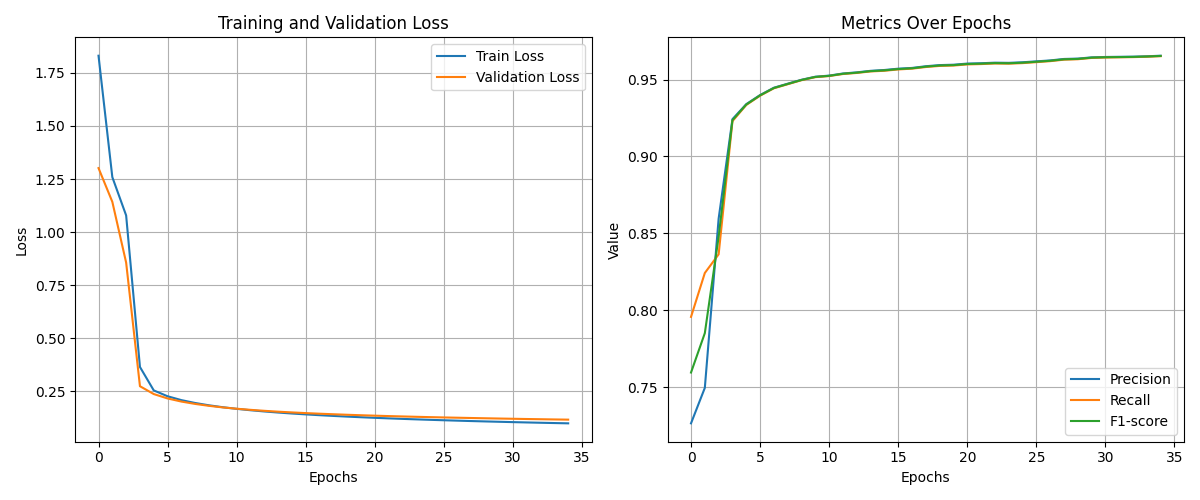
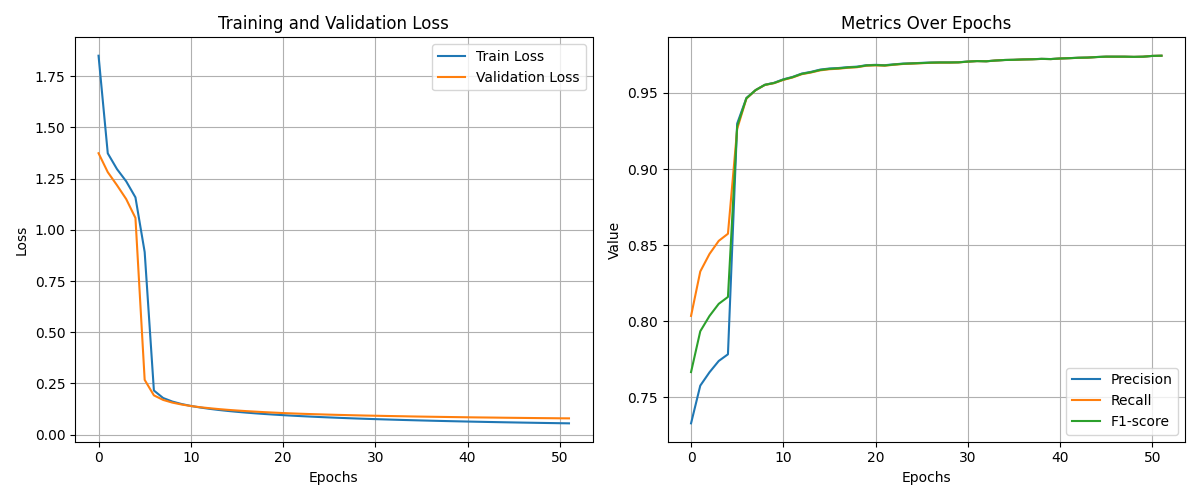
Add layer visualization and activation capture functionality
- Introduced `capture_activations` and `visualize_layer_learning` functions in `utils_mnist.py` to capture and visualize layer activations during model inference.
- Updated `example_mnist.py` to visualize layer learning during the testing phase.
- Added a new binary file `history.png` to store training history.
- Created a new test file `pitensor_tensor.py` to validate tensor operations and layer instantiation.
- Modified import statements to include necessary layers for visualization.

diff --git a/pitensor/nn/optimizers/Adam.py b/pitensor/nn/optimizers/Adam.py
@@ -1,6 +1,5 @@
-import numpy as np
 from .Optimizer import Optimizer
-from pitensor.nn.layers import Linear
+import numpy as np
 
 class Adam(Optimizer):
     def __init__(self, learning_rate=0.001, beta1=0.9, beta2=0.999, epsilon=1e-8):
@@ -14,28 +13,36 @@ class Adam(Optimizer):
 
     def step(self, layers):
         self.t += 1
-        for i, layer in enumerate(layers):
-            if isinstance(layer, Linear):
-                if i not in self.m:
-                    self.m[i] = {'weights': np.zeros_like(layer.weights), 'biases': np.zeros_like(layer.biases)}
-                    self.v[i] = {'weights': np.zeros_like(layer.weights), 'biases': np.zeros_like(layer.biases)}
-                
-                # Update biased first moment estimate
-                self.m[i]['weights'] = self.beta1 * self.m[i]['weights'] + (1 - self.beta1) * layer.grad_weights
-                self.m[i]['biases'] = self.beta1 * self.m[i]['biases'] + (1 - self.beta1) * layer.grad_biases
+        for layer in layers:
+            if not hasattr(layer, "weights") or not hasattr(layer, "grad_weights") or layer.grad_weights is None:
+                continue
 
-                # Update biased second raw moment estimate
-                self.v[i]['weights'] = self.beta2 * self.v[i]['weights'] + (1 - self.beta2) * (layer.grad_weights ** 2)
-                self.v[i]['biases'] = self.beta2 * self.v[i]['biases'] + (1 - self.beta2) * (layer.grad_biases ** 2)
+            layer_key = id(layer)
+            if layer_key not in self.m:
+                self.m[layer_key] = {'weights': np.zeros_like(layer.weights)}
+                self.v[layer_key] = {'weights': np.zeros_like(layer.weights)}
+                if hasattr(layer, "biases"):
+                    self.m[layer_key]['biases'] = np.zeros_like(layer.biases)
+                    self.v[layer_key]['biases'] = np.zeros_like(layer.biases)
 
-                # Compute bias-corrected first moment estimate
-                m_hat_weights = self.m[i]['weights'] / (1 - self.beta1 ** self.t)
-                m_hat_biases = self.m[i]['biases'] / (1 - self.beta1 ** self.t)
+            # Update biased first moment estimate
+            self.m[layer_key]['weights'] = self.beta1 * self.m[layer_key]['weights'] + (1 - self.beta1) * layer.grad_weights
 
-                # Compute bias-corrected second raw moment estimate
-                v_hat_weights = self.v[i]['weights'] / (1 - self.beta2 ** self.t)
-                v_hat_biases = self.v[i]['biases'] / (1 - self.beta2 ** self.t)
+            # Update biased second raw moment estimate
+            self.v[layer_key]['weights'] = self.beta2 * self.v[layer_key]['weights'] + (1 - self.beta2) * (layer.grad_weights ** 2)
 
-                # Update parameters
-                layer.weights -= self.learning_rate * m_hat_weights / (np.sqrt(v_hat_weights) + self.epsilon)
+            # Compute bias-corrected first moment estimate
+            m_hat_weights = self.m[layer_key]['weights'] / (1 - self.beta1 ** self.t)
+
+            # Compute bias-corrected second raw moment estimate
+            v_hat_weights = self.v[layer_key]['weights'] / (1 - self.beta2 ** self.t)
+
+            # Update weights
+            layer.weights -= self.learning_rate * m_hat_weights / (np.sqrt(v_hat_weights) + self.epsilon)
+
+            if hasattr(layer, "biases") and hasattr(layer, "grad_biases") and layer.grad_biases is not None:
+                self.m[layer_key]['biases'] = self.beta1 * self.m[layer_key]['biases'] + (1 - self.beta1) * layer.grad_biases
+                self.v[layer_key]['biases'] = self.beta2 * self.v[layer_key]['biases'] + (1 - self.beta2) * (layer.grad_biases ** 2)
+                m_hat_biases = self.m[layer_key]['biases'] / (1 - self.beta1 ** self.t)
+                v_hat_biases = self.v[layer_key]['biases'] / (1 - self.beta2 ** self.t)
                 layer.biases -= self.learning_rate * m_hat_biases / (np.sqrt(v_hat_biases) + self.epsilon)

diff --git a/playground/mnist/utils_mnist.py b/playground/mnist/utils_mnist.py
@@ -7,7 +7,7 @@ from tqdm import tqdm
 from typing import Union
 
 # Import the necessary layers, losses, optimizers, and metrics:
-from pitensor.nn.layers import Sequential
+from pitensor.nn.layers import Sequential, Conv2D, Linear, ReLU, MaxPool2D, Softmax, Flatten
 from pitensor.nn.losses import CrossEntropyLoss
 from pitensor.nn.optimizers import Optimizer, SGD
 from pitensor.metrics import precision_score, recall_score, f1_score
@@ -203,5 +203,94 @@ def plot_training_history(csv_path: str, save_path: str = None):
     else:
         plt.show()
     plt.close()
+
+def capture_activations(layers: Sequential, input_sample: np.ndarray):
+    """
+    Runs a forward pass and captures the output after each layer.
+
+    Args:
+        layers (Sequential): Model layers.
+        input_sample (np.ndarray): Input sample or batch.
+
+    Returns:
+        list[tuple[str, np.ndarray]]: (layer_name, activation) pairs.
+    """
+    activations = []
+    current = input_sample
+    for layer in layers:
+        current = layer.forward(current)
+        activations.append((layer.__class__.__name__, current))
+    return activations
+
+def visualize_layer_learning(
+    layers: Sequential,
+    input_sample: np.ndarray,
+    save_dir_path: str,
+    prefix: str = "sample"
+):
+    """
+    Saves visualizations of what each layer is learning.
+
+    For Conv2D: saves a grid of feature maps (first N channels).
+    For Linear: saves a weight heatmap and activation histogram.
+    For other layers: saves activation histogram.
+    """
+    os.makedirs(save_dir_path, exist_ok=True)
+    activations = capture_activations(layers, input_sample)
+
+    for idx, (layer_name, activation) in enumerate(activations):
+        layer = layers[idx]
+        fig_path = os.path.join(save_dir_path, f"{prefix}_layer_{idx}_{layer_name}.png")
+
+        if isinstance(layer, Conv2D):
+            # activation: (batch, channels, height, width)
+            feature_maps = activation[0]
+            num_maps = min(8, feature_maps.shape[0])
+            cols = 4
+            rows = int(np.ceil(num_maps / cols))
+            plt.figure(figsize=(cols * 3, rows * 3))
+            for i in range(num_maps):
+                plt.subplot(rows, cols, i + 1)
+                plt.imshow(feature_maps[i], cmap="gray")
+                plt.title(f"ch {i}")
+                plt.axis("off")
+            plt.suptitle(f"{layer_name} feature maps (sample 0)")
+            plt.tight_layout()
+            plt.savefig(fig_path)
+            plt.close()
+            continue
+
+        if isinstance(layer, Linear):
+            # Weights heatmap
+            plt.figure(figsize=(6, 4))
+            plt.imshow(layer.weights, aspect="auto", cmap="viridis")
+            plt.colorbar(label="Weight value")
+            plt.title(f"{layer_name} weights")
+            plt.xlabel("Output units")
+            plt.ylabel("Input units")
+            plt.tight_layout()
+            plt.savefig(fig_path.replace(".png", "_weights.png"))
+            plt.close()
+
+            # Activation histogram
+            plt.figure(figsize=(6, 4))
+            plt.hist(activation.flatten(), bins=50)
+            plt.title(f"{layer_name} activations")
+            plt.xlabel("Activation value")
+            plt.ylabel("Frequency")
+            plt.tight_layout()
+            plt.savefig(fig_path.replace(".png", "_activations.png"))
+            plt.close()
+            continue
+
+        # Generic activation histogram for other layers
+        plt.figure(figsize=(6, 4))
+        plt.hist(activation.flatten(), bins=50)
+        plt.title(f"{layer_name} activations")
+        plt.xlabel("Activation value")
+        plt.ylabel("Frequency")
+        plt.tight_layout()
+        plt.savefig(fig_path)
+        plt.close()
 
 # endregion

diff --git a/pitensor/nn/layers/Conv2D.py b/pitensor/nn/layers/Conv2D.py
@@ -69,9 +69,11 @@ class Conv2D(Layer):
         # Fix: Ensure grad_input has the same shape as original input
         grad_input = np.zeros((batch_size, in_channels, height, width))
         grad_weights = np.zeros_like(self.weights)
-        grad_biases = np.sum(grad_output, axis=(0, 2, 3), keepdims=True)
+        grad_biases = np.sum(grad_output, axis=(0, 2, 3), keepdims=False).reshape(self.out_channels, 1, 1)
 
         out_height, out_width = grad_output.shape[2], grad_output.shape[3]
+        pad_h = kernel_height - 1
+        pad_w = kernel_width - 1
 
         for out_channel in range(self.out_channels):
             for in_channel in range(in_channels):
@@ -81,17 +83,17 @@ class Conv2D(Layer):
                     for b in range(batch_size)
                 ], axis=0)
 
-                # Fix: Ensure grad_input receives properly shaped data
-                grad_output_resized = np.array([
-                    self.correlate2d(grad_output[b, out_channel], np.flip(self.weights[out_channel, in_channel]))
-                    for b in range(batch_size)
-                ])
-
-                # Check if grad_output_resized matches grad_input[:, in_channel]
-                if grad_output_resized.shape[1:] == grad_input[:, in_channel].shape[1:]:
-                    grad_input[:, in_channel] += grad_output_resized
-                # else:
-                #     print(f"Shape Mismatch: grad_output_resized {grad_output_resized.shape}, grad_input[:, in_channel] {grad_input[:, in_channel].shape}")
+                # Full convolution via padded grad_output so grad_input matches input shape.
+                for b in range(batch_size):
+                    grad_output_padded = np.pad(
+                        grad_output[b, out_channel],
+                        ((pad_h, pad_h), (pad_w, pad_w)),
+                        mode='constant'
+                    )
+                    grad_input[b, in_channel] += self.correlate2d(
+                        grad_output_padded,
+                        np.flip(self.weights[out_channel, in_channel])
+                    )
 
         self.grad_weights = grad_weights
         self.grad_biases = grad_biases
@@ -144,4 +146,3 @@ class Conv2D(Layer):
         output = np.einsum('ijkl,kl->ij', image_patches, kernel)
 
         return output
-

diff --git a/playground/mnist/example_mnist.py b/playground/mnist/example_mnist.py
@@ -13,18 +13,19 @@ from playground.data_loaders.digit_recognizer import load_digit_recognizer
 # Import the necessary modules to plot the images:
 import matplotlib.pyplot as plt
 
-from utils_mnist import ClassificationNetwork, plot_grayscale_image, plot_training_history
+from utils_mnist import ClassificationNetwork, plot_grayscale_image, plot_training_history, visualize_layer_learning
 
 if __name__ == '__main__':
     # Variables:
-    approach: Literal['mlp', 'cnn'] = 'cnn'
-    pipeline_phase = 'test'
+    approach: Literal['mlp', 'cnn'] = 'mlp'
+    pipeline_phase = 'train'
 
     ROOT_DIR = os.path.join(os.path.dirname(os.path.abspath(__file__)), '../../')
     DIGIT_RECOGNIZER_DIR = os.path.join(ROOT_DIR, 'data', 'digit-recognizer')
     TRAIN_FILE = os.path.join(DIGIT_RECOGNIZER_DIR, 'train.csv')
     TEST_FILE = os.path.join(DIGIT_RECOGNIZER_DIR, 'test.csv')
     CHECKPOINT_DIR_PATH = os.path.join(ROOT_DIR, 'playground', 'checkpoints', f'{approach}_mnist')
+    VIZ_DIR_PATH = os.path.join(CHECKPOINT_DIR_PATH, 'layer_viz')
 
     # SET THE SEED
     np.random.seed(1746911)
@@ -91,5 +92,11 @@ if __name__ == '__main__':
         num_tests = 10
         test_data_small = test_data[:num_tests]
         preds = net.predict(test_data_small)
+        visualize_layer_learning(
+            layers,
+            test_data_small[:1],
+            save_dir_path=VIZ_DIR_PATH,
+            prefix=f"{approach}_test"
+        )
         for test_i, pred_i in zip(test_data_small, preds):
             plot_grayscale_image(test_i, title=f'pred {pred_i}')

diff --git a/pitensor/nn/optimizers/SGD.py b/pitensor/nn/optimizers/SGD.py
@@ -1,6 +1,4 @@
-import numpy as np
 from .Optimizer import Optimizer
-from pitensor.nn.layers import Linear
 
 class SGD(Optimizer):
     """Implements the Stochastic Gradient Descent (SGD) optimization algorithm.
@@ -22,9 +20,10 @@ class SGD(Optimizer):
             layers (list): A list of layers in the model.
 
         Notes:
-            - Only layers that are instances of the `Linear` class are updated.
+            - Updates any layer exposing weights/biases and their gradients.
         """
         for layer in layers:
-            if isinstance(layer, Linear):
+            if hasattr(layer, "weights") and hasattr(layer, "grad_weights") and layer.grad_weights is not None:
                 layer.weights -= self.learning_rate * layer.grad_weights
+            if hasattr(layer, "biases") and hasattr(layer, "grad_biases") and layer.grad_biases is not None:
                 layer.biases -= self.learning_rate * layer.grad_biases

diff --git a/pitensor/nn/losses/CrossEntropyLoss.py b/pitensor/nn/losses/CrossEntropyLoss.py
@@ -22,10 +22,11 @@ class CrossEntropyLoss:
             raise ValueError("Targets should be a 1D array of size equal to the batch size.")
         if not np.issubdtype(targets.dtype, np.integer):
             raise ValueError("Targets should be an array of integers representing class indices.")
-        self.predictions = predictions
+        clipped_predictions = np.clip(predictions, 1e-8, 1.0)
+        self.predictions = clipped_predictions
         self.targets = targets
         self.batch_size = predictions.shape[0]
-        log_likelihood = -np.log(predictions[range(self.batch_size), targets])
+        log_likelihood = -np.log(clipped_predictions[range(self.batch_size), targets])
         return np.sum(log_likelihood) / self.batch_size
 
     def backward(self) -> np.ndarray:

diff --git a/pitensor/metrics/precision_recall_f1_score.py b/pitensor/metrics/precision_recall_f1_score.py
@@ -38,8 +38,8 @@ def precision_score(
 
     if average == 'micro':
         TP = np.sum(y_true == y_pred)
-        FP = np.sum((y_true != y_pred) & (y_pred > 0))
-        return TP / (TP + FP) if (TP + FP) > 0 else 0.0
+        total = y_true.size
+        return TP / total if total > 0 else 0.0
 
     if average == 'macro':
         return np.mean(precision_per_class)
@@ -86,8 +86,8 @@ def recall_score(
 
     if average == 'micro':
         TP = np.sum(y_true == y_pred)
-        FN = np.sum((y_true != y_pred) & (y_true > 0))
-        return TP / (TP + FN) if (TP + FN) > 0 else 0.0
+        total = y_true.size
+        return TP / total if total > 0 else 0.0
 
     if average == 'macro':
         return np.mean(recall_per_class)

diff --git a/playground/tests/pitensor_tensor.py b/playground/tests/pitensor_tensor.py
@@ -1,0 +1,19 @@
+import pitensor as pt
+import numpy as np
+from pitensor.nn.layers import Linear
+
+pi_tensor = pt.Tensor([
+    [1, 2, 3], 
+    [4, 5, 6],
+])
+
+np_array = np.array([
+    [1, 2, 3], 
+    [4, 5, 6],
+])
+
+if __name__ == '__main__':
+    prod = pi_tensor @ pi_tensor.T
+    print(prod, type(prod), type(prod[0]))
+    print(type(Linear(11,11)))
+    print(np_array)

diff --git a/pitensor/Tensor.py b/pitensor/Tensor.py
@@ -22,7 +22,7 @@ class Tensor(np.ndarray):
         """Ensures all operations return a Tensor."""
         if return_scalar: # If NumPy expects a scalar, return a Python scalar
             return out_arr.item()
-        return Tensor(out_arr)
+        return np.asarray(out_arr).view(Tensor)
     
     def numpy(self):
         """Explicitly converts Tensor back to a NumPy array."""
